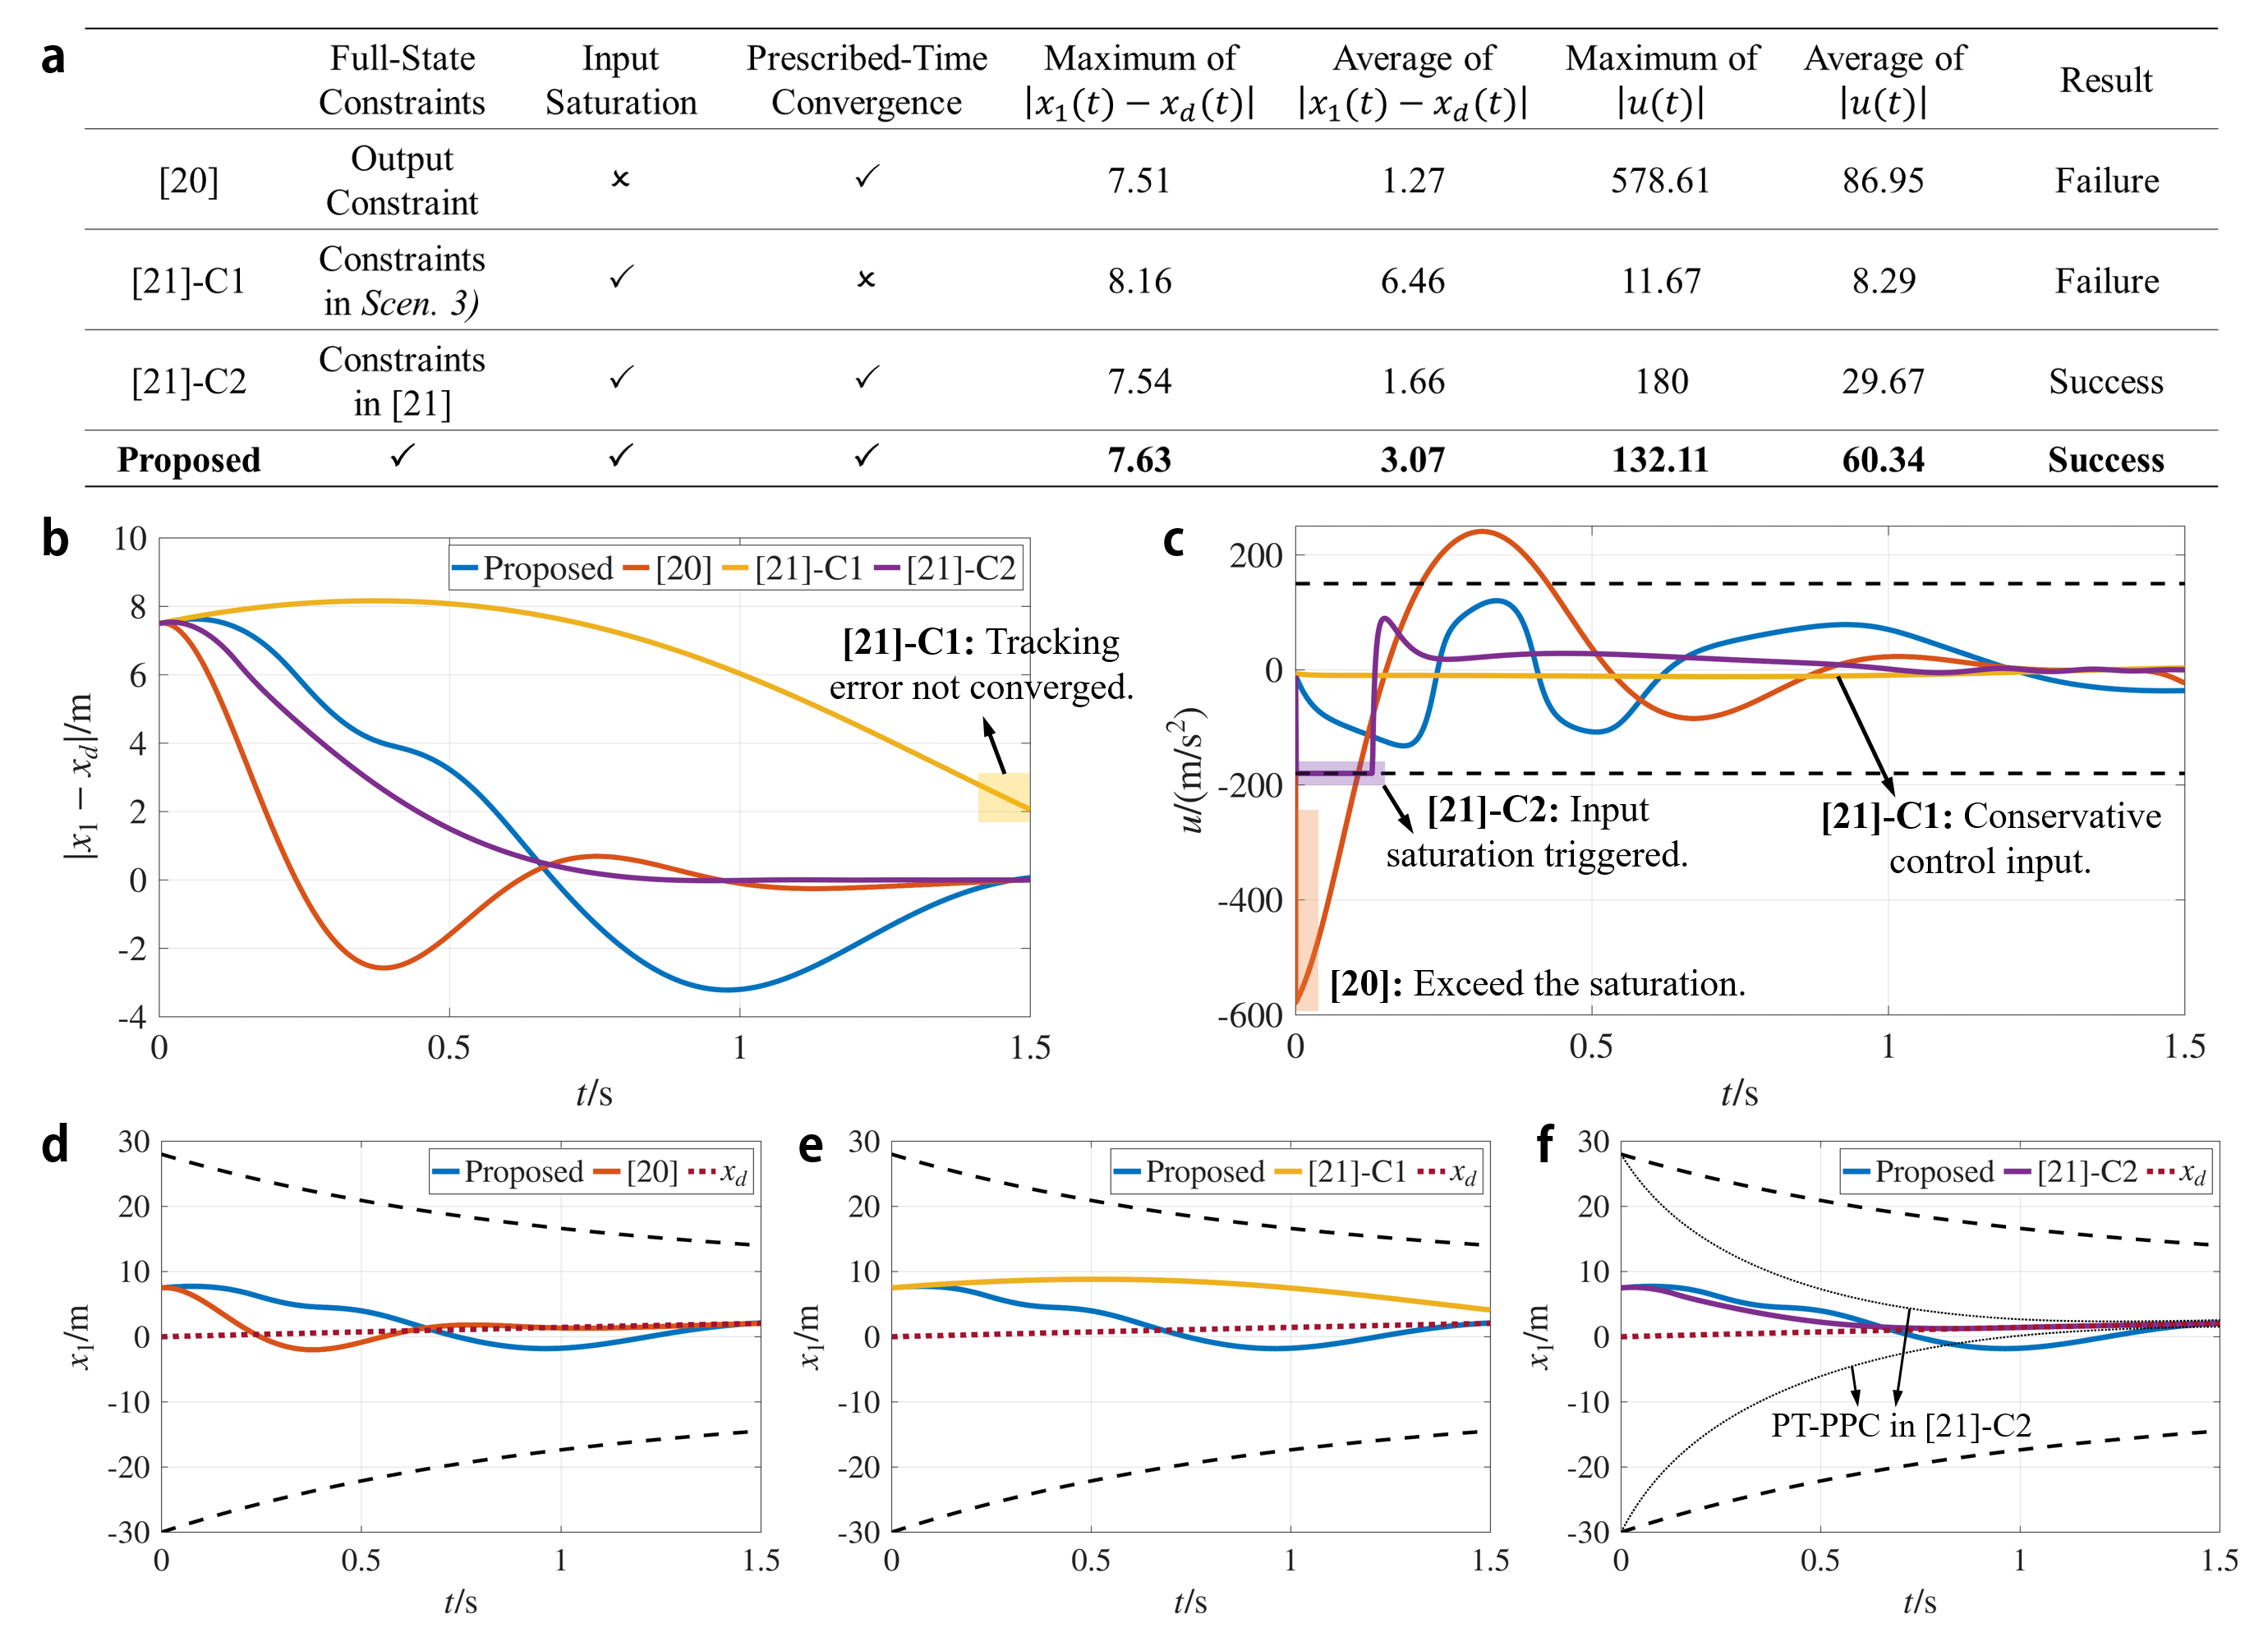
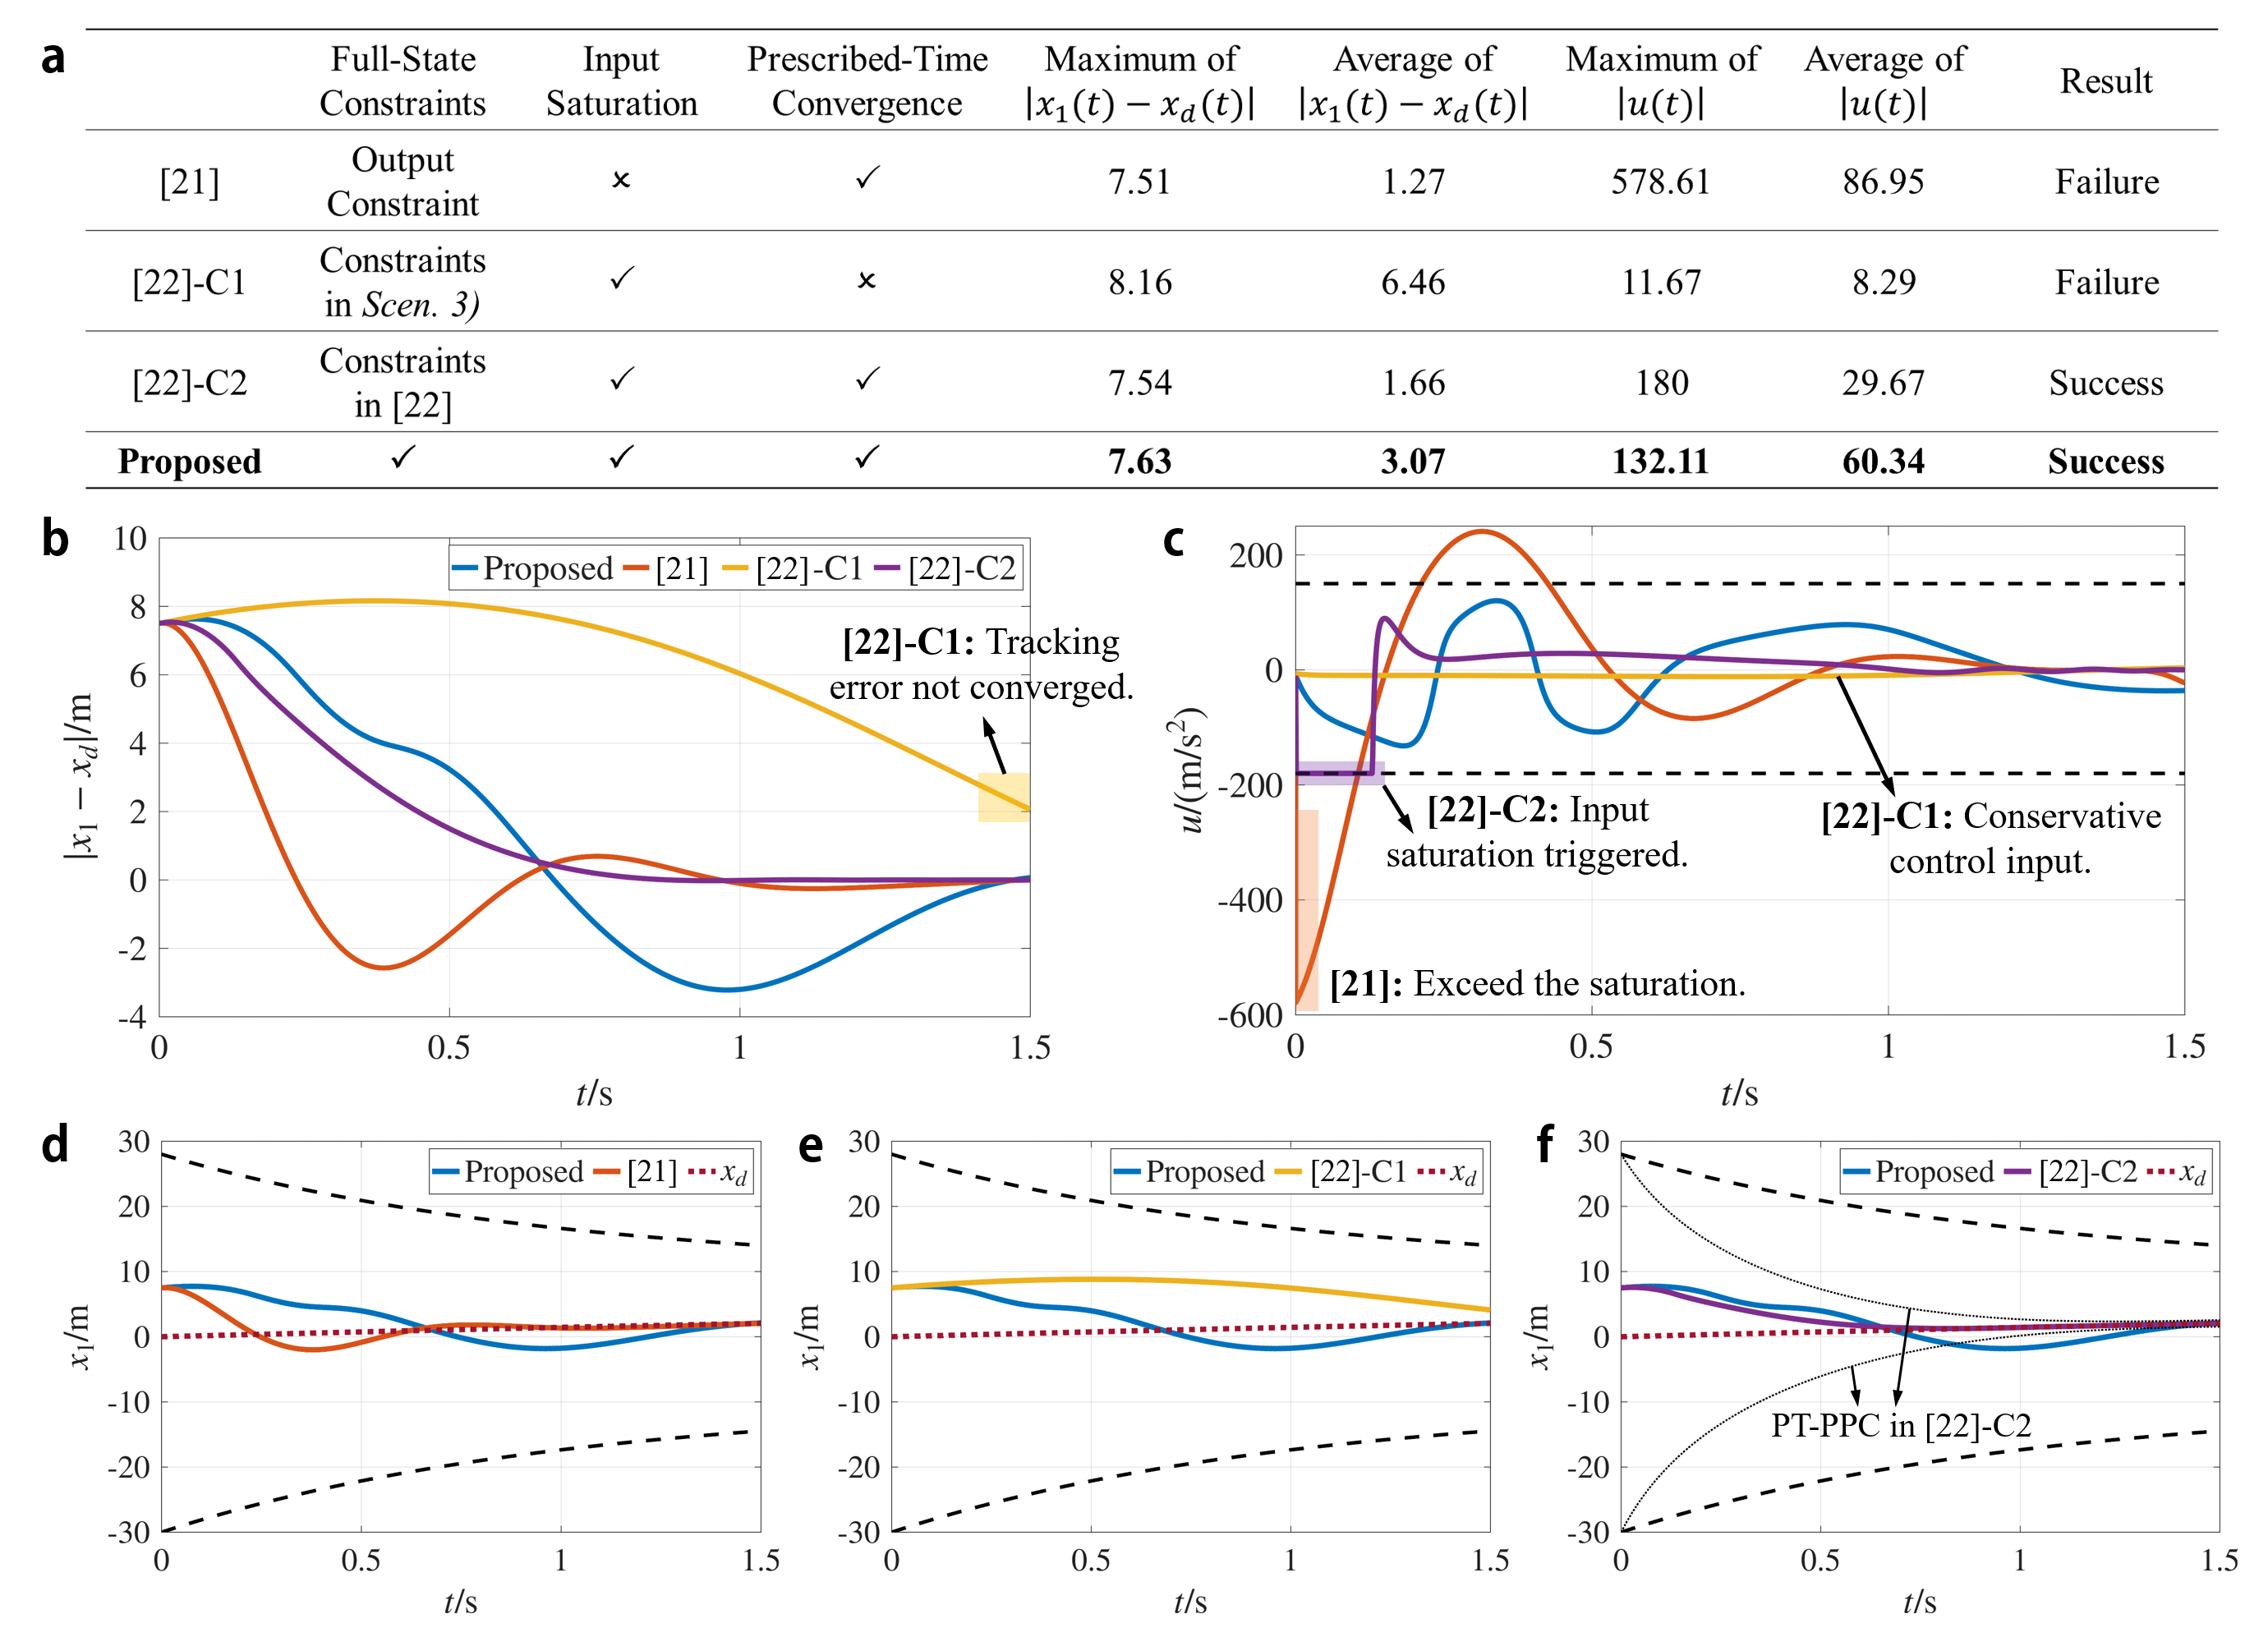
update references

diff --git a/index.html b/index.html
@@ -262,7 +262,7 @@
                   <span class="author-block">
                     <a href="https://www.researchgate.net/profile/Zhiqiang-Miao" target="_blank">Zhiqiang Miao</a>,</span>
                   <span class="author-block">
-                    <a href="https://www.researchgate.net/profile/Xinwang-Liu-3" target="_blank">Xinwang Liu</a>
+                    <a href="https://xinwangliu.github.io/" target="_blank">Xinwang Liu</a>
                   </span>
                   </div>
 
@@ -454,8 +454,8 @@
           <img width=80% src="static/images/fig3.png" alt="Control Performances under 6 Constrained Scenarios." loading="lazy"/>
           <!-- TODO: Replace with description of this result -->
           <p>
-            Tracking performance comparison with prescribed-time output-constrained method [20] and PT-PPC approach [21]. <b>a</b> lists simulation settings and comparison of [20], [21], and proposed TSST-based control protocol. 
-            <b>b</b>-<b>c</b> depict tracking errors and control inputs of different methods, respectively. <b>d</b>-<b>f</b> correspond to the comparisons of tracking performance with [20], [21]-C1, and [21]-C2, respectively.
+            Tracking performance comparison with prescribed-time output-constrained method [21] and PT-PPC approach [22]. <b>a</b> lists simulation settings and comparison of [21], [22], and proposed TSST-based control protocol. 
+            <b>b</b>-<b>c</b> depict tracking errors and control inputs of different methods, respectively. <b>d</b>-<b>f</b> correspond to the comparisons of tracking performance with [21], [22]-C1, and [22]-C2, respectively.
           </p>
           <h2 class="subtitle has-text-left">
             <br>Unlike existing methods, the proposed TSST-based control protocol uniformly maps the constrained system in the \(t\)-domain to an unconstrained one in the \(s\)-domain. 